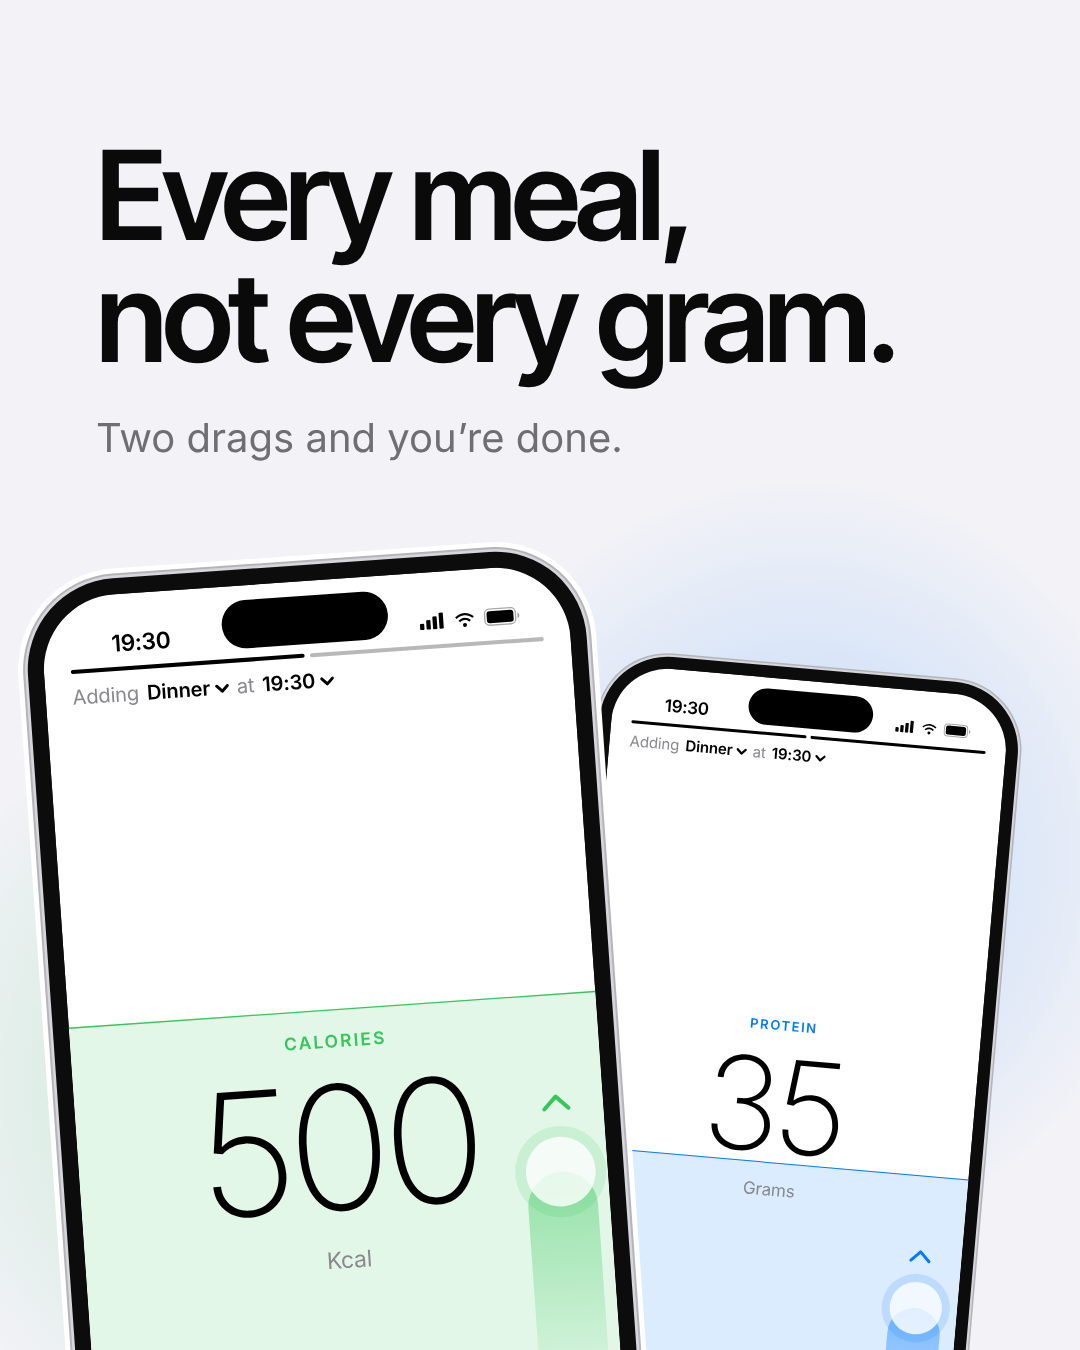
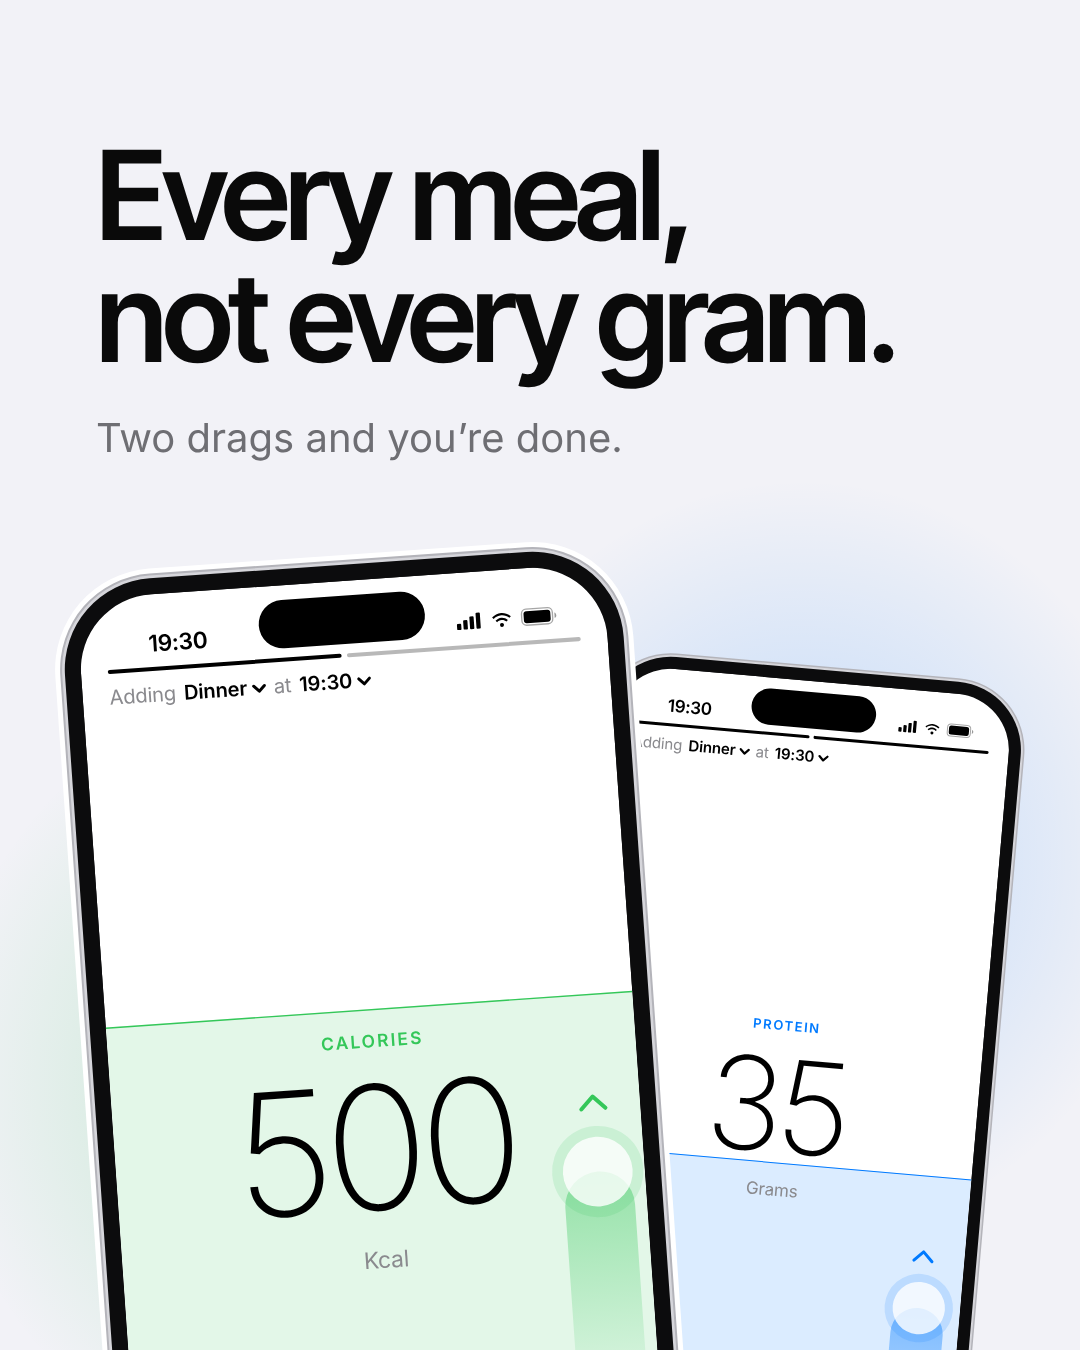
Put slide 2's lines back under the headline, and centre the cover phones
Slide 2 returns to its original layout, the line in one block at the top
with the two lines of handwriting stacked under it, but keeps the calm
blue. The cover's phones now sit the same distance, about 55 px, from
the left and right edges (the calories phone was 18 px from the left).

Claude-Session: https://claude.ai/code/session_01Uh1X8FuQRyU1AfUTYksqK3

diff --git a/instagram/README.md b/instagram/README.md
@@ -5,7 +5,7 @@ Six 4:5 slides (1080 × 1350), in posting order. They're plain SVGs styled like 
 | # | File | Says |
 | - | ---- | ---- |
 | 1 | `01-cover.svg` | Every meal, not every gram. Two drags and you're done. Two phones mid-drag: 500 kcal, then 35 g of protein. |
-| 2 | `02-roughly-right.svg` | Why it works. Roughly right every day beats perfectly right for a week, in two halves, each with its own line of handwriting: a loose green line that keeps going under the first, and seven neat grey loops that stop at a full stop under the second. On a calm blue. |
+| 2 | `02-roughly-right.svg` | Why it works. Roughly right every day beats perfectly right for a week. Two lines of handwriting: a loose green one that keeps going, and a neat grey one that stops at a full stop. Close enough, kept up. On a calm blue. |
 | 3 | `03-keep-count.svg` | Balance. Keep count without it taking over. With room for real life. A hand-drawn green margin down the left, with a few tally marks kept small in it, and the page left to the message. |
 | 4 | `04-fourteen-steps.svg` / `.mp4` | A typical tracker: 14 steps. One homemade spag bol for four. Laid out like the site's comparison cards: a progress bar with a segment per step, the current step's caption, and the phone. The still shows step 3 of 14; the video steps through all fourteen, one caption at a time (21 s). |
 | 5 | `05-two-steps.svg` / `.mp4` | Macro: 2 steps. The same spag bol: drag to 500 kcal, drag to 35 g of protein, then we do the rest, with carbs and fat estimated on Today. The still shows it done; the video plays both drags, the glow turning from green to blue, and lands on Today (6 s). |
@@ -44,7 +44,7 @@ Colours are the site's: ink `#0a0a0a`, muted `#6e6e73`, faint `#a1a1a6`, surface
 ## Alt text
 
 1. "Every meal, not every gram. Two drags and you're done." Two iPhones mid-drag: dinner dragged to 500 calories on one, 35 grams of protein on the other.
-2. "Roughly right every day beats perfectly right for a week." The sentence in two halves. Under "Roughly right every day beats", a loose green hand-drawn line of loops, every loop a little different, runs on past the edge. Under "perfectly right for a week.", seven neat grey loops stop at a full stop.
+2. "Roughly right every day beats perfectly right for a week." Two hand-drawn lines of loops, like joined-up handwriting. A loose green line, every loop a little different, keeps going past the edge; a neat grey line of seven identical loops stops with a full stop. "Close enough, kept up."
 3. "Keep count without it taking over. With room for real life." Down the left, a hand-drawn green margin line, with a few tally marks kept small beside it; the rest of the page is open.
 4. "14 steps." A typical tracker logging one homemade spag bol for four. A progress bar of fourteen segments, on step 3: "Pick the right match". The phone shows a long list of near-identical beef mince results.
 5. "2 steps." The same spag bol in Macro: drag to 500 calories, drag to 35 grams of protein, done. "We do the rest." The phone shows the day with carbs and fat estimated.
